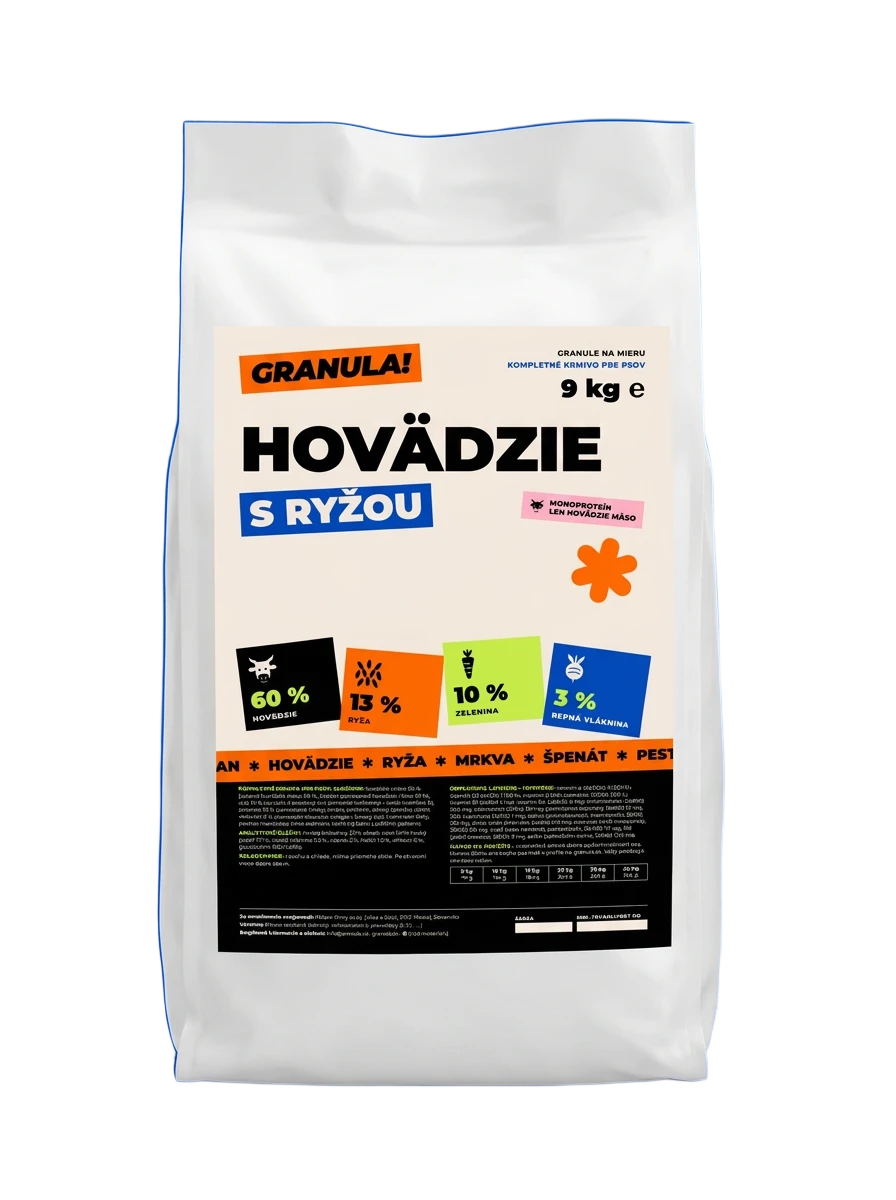
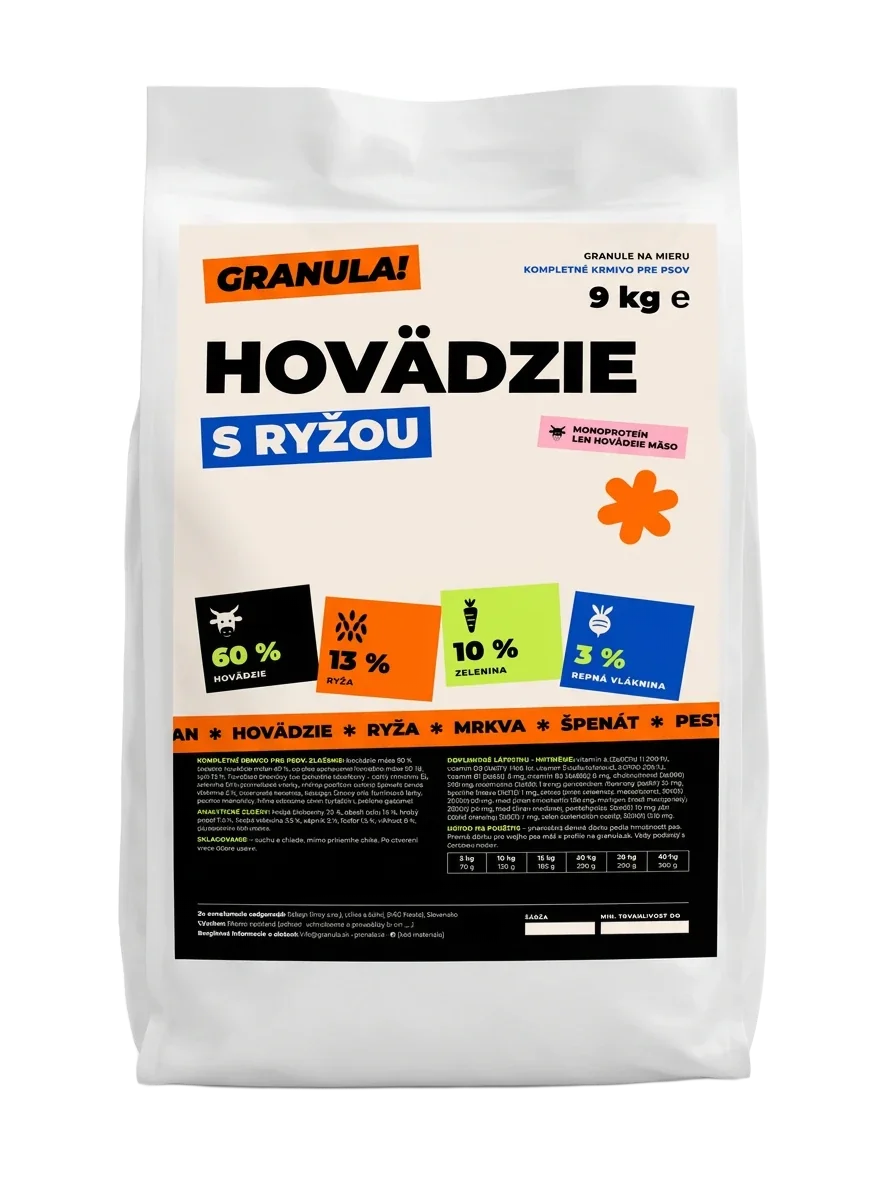
Granula home: new reviews section replaces 'Prečo Granula'; new bag images
Two auto-scrolling rows (opposite directions, pause on hover/focus, static and
scrollable with reduced motion) of photo cards with the dog's recipe and quote
cards. Replaces the pillars section and the old review carousel. New label
renders for all five recipes in img/produkty (used site-wide).

Claude-Session: https://claude.ai/code/session_01NsTXjdCeDU5mg9hJbbGUe3

Changed region(s): [[0.125, 0.0617, 0.875, 0.925], [0.4688, 0.0617, 0.8438, 0.1542], [0.5625, 0.1542, 0.625, 0.185]]

diff --git a/granula/index.html b/granula/index.html
@@ -43,15 +43,42 @@
 .stat .v{font-size:clamp(26px,2.4vw,36px);color:var(--k)}
 .stat span:last-child{font-size:14px;font-weight:700;line-height:1.4;max-width:220px}
 
-/* ---------- 01 piliere ---------- */
-.pillars{display:grid;grid-template-columns:repeat(3,minmax(0,1fr));gap:32px}
-.pillar{display:flex;flex-direction:column;gap:14px}
-.pillar .frame{height:280px}
-.pillar .kicker{position:absolute;left:-10px;top:18px;font-size:15px;padding:8px 12px 7px}
-.pillar h3{margin-top:6px;font-size:22px}
-.pillar p{font-size:15px;line-height:1.45}
-.tags{display:flex;flex-wrap:wrap;gap:8px}
-.tags span{border:2px solid var(--n);padding:7px 12px;font-size:13px;font-weight:800}
+/* ---------- 01 recenzie: dva rady, ktoré sa samy posúvajú opačným smerom ---------- */
+.rw .wrap{margin-bottom:32px}
+.rw-wrap{display:flex;flex-direction:column;gap:12px;overflow:hidden}
+.rw-row{list-style:none;margin:0;padding:0;display:flex;gap:12px;width:max-content;animation:rw-left 80s linear infinite}
+.rw-row.rw-b{animation-name:rw-right;animation-duration:95s}
+.rw-wrap:hover .rw-row,.rw-wrap:focus-within .rw-row{animation-play-state:paused}
+@keyframes rw-left{from{transform:translateX(0)}to{transform:translateX(calc(-50% - 6px))}}
+@keyframes rw-right{from{transform:translateX(calc(-50% - 6px))}to{transform:translateX(0)}}
+.rw-c{flex:none;height:240px;border:2px solid var(--n);background:var(--ml)}
+.rw-ph{position:relative;width:240px;overflow:hidden}
+.rw-img{position:absolute;inset:0;width:100%;height:100%;object-fit:cover}
+.rw-prod{position:absolute;left:8px;right:8px;bottom:8px;min-height:48px;display:flex;align-items:center;gap:8px;padding:6px 10px 6px 58px;
+  background:var(--m);border:2px solid var(--n);color:var(--n);text-decoration:none;transition:background 150ms ease}
+.rw-prod:hover{background:var(--o)}
+.rw-prod img{position:absolute;left:8px;bottom:3px;height:76px;width:auto}
+.rw-pt{flex:1;min-width:0;display:flex;flex-direction:column;gap:1px}
+.rw-pt small{font-size:9px;font-weight:800;letter-spacing:.08em;text-transform:uppercase}
+.rw-pt b{font-size:12px;font-weight:800;line-height:1.2}
+.rw-arr{flex:none;font-weight:900}
+.rw-tx{width:320px;padding:20px 22px 16px;display:flex;flex-direction:column;gap:12px}
+.rate{display:flex;gap:4px;color:var(--k)}
+.rw-tx .rate{font-size:15px}
+.rw-tx p{flex:1;font-size:15px;line-height:1.45;font-weight:600}
+.rw-by{display:flex;align-items:flex-end;gap:12px;font-size:12px;line-height:1.35}
+.rw-by img{height:58px;width:auto;flex:none}
+.rw-by b{font-weight:800}
+@media (max-width:640px){
+  .rw-c{height:200px}.rw-ph{width:200px}.rw-tx{width:264px;padding:14px 16px 12px;gap:8px}
+  .rw-tx p{font-size:13px}.rw-by img{height:48px}
+  .rw-prod{min-height:44px;padding-left:50px}.rw-prod img{height:62px}
+  .rw-pt small{font-size:8px}.rw-pt b{font-size:11px}
+}
+@media (prefers-reduced-motion:reduce){
+  .rw-wrap{overflow-x:auto}.rw-row{animation:none}
+  .rw-row [aria-hidden="true"]{display:none}
+}
 
 /* ---------- 02 dlhovekosť ---------- */
 /* Mlieko sekcia; číslo v orámovanom Kobaltovom paneli, Limetka ako jediný akcent */
@@ -144,28 +171,6 @@
 /* dve oranžové pásky do X: horná oddelená pruhom Mlieka */
 .nula-tapes .dark .tape{outline:3px solid var(--m)}
 
-/* ---------- recenzie ---------- */
-.arrows{display:flex;gap:10px}
-.arrow{width:48px;height:48px;border:2px solid var(--n);background:transparent;color:var(--n);font:900 22px/1 var(--font);cursor:pointer;
-  display:flex;align-items:center;justify-content:center}
-.arrow.dark{background:var(--n);color:var(--o)}
-.arrow{transition:background 150ms ease,color 150ms ease}
-.arrow:hover:not(:disabled){background:var(--n);color:var(--m)}
-.arrow.dark:hover:not(:disabled){background:var(--o);color:var(--n)}
-.arrow:disabled{opacity:.35;cursor:default}
-.is-static .arrow:disabled{opacity:1}
-.reviews{display:flex;gap:16px;overflow-x:auto;scroll-snap-type:x mandatory;scrollbar-width:none;padding-bottom:4px}
-.reviews::-webkit-scrollbar{display:none}
-.review{flex:0 0 calc((100% - 48px) / 4);scroll-snap-align:start;background:var(--ml);border:2px solid var(--n);display:flex;flex-direction:column}
-.review .pic{height:210px;position:relative;border-bottom:2px solid var(--n);overflow:hidden}
-.review .pic img{position:absolute;inset:0;width:100%;height:100%;object-fit:cover}
-.rate{display:flex;gap:4px;color:var(--k);font-size:14px}
-.review .body{padding:16px 18px 18px;display:flex;flex-direction:column;gap:10px;flex:1}
-.review blockquote{margin:0;font-size:14px;line-height:1.45;font-weight:600}
-.review .by{margin-top:auto;border-top:2px solid var(--n);padding-top:12px}
-.review .by b{font-size:13px;display:block}
-.review .by span{display:block;font-size:12px;font-weight:600;margin-top:4px}
-
 /* ---------- odborníci ---------- */
 .experts-grid{display:grid;grid-template-columns:repeat(3,minmax(0,1fr));gap:16px}
 .expert{background:var(--ml);border:2px solid var(--n);padding:32px;display:flex;flex-direction:column;gap:26px}
@@ -201,9 +206,6 @@
 .final .sticker{position:absolute;left:-24px;bottom:40px;font-size:22px}
 
 /* ---------- menšie obrazovky ---------- */
-@media (max-width:1100px){
-  .review{flex-basis:calc((100% - 24px) / 2)}
-}
 @media (max-width:960px){
   .hero .wrap,.longevity .wrap,.faq .wrap,.final .wrap{grid-template-columns:minmax(0,1fr)}
   .hero .wrap{gap:56px;padding-top:48px}
@@ -212,7 +214,7 @@
   .stats .wrap{grid-template-columns:repeat(2,minmax(0,1fr))}
   .stat:nth-child(3){border-left:0}
   .stat:nth-child(n+3){border-top:2px solid var(--n)}
-  .pillars,.experts-grid{grid-template-columns:minmax(0,1fr)}
+  .experts-grid{grid-template-columns:minmax(0,1fr)}
   .lg-panel{padding:28px 24px 32px}
   .steps{grid-template-columns:minmax(0,1fr)}
   .step + .step{border-left:0;border-top:2px solid var(--n)}
@@ -221,7 +223,6 @@
   .final .sticker{left:-8px}
 }
 @media (max-width:640px){
-  .review{flex-basis:86%}
   .s-vet{top:20px;padding:10px 14px 8px}
   .s-vet small{font-size:9px}
   .s-vet b{font-size:22px}
@@ -282,42 +283,17 @@
   </div>
 </section>
 
-<!-- 01 prečo -->
-<section class="sec">
-  <div class="wrap" style="display:flex;flex-direction:column;gap:32px">
-    <div class="head" style="max-width:900px">
-      <div class="eyebrow">01. Prečo Granula</div>
-      <h2 class="h2">Energia. Pohoda. <span class="ac">Roky navyše.</span></h2>
+<!-- 01 recenzie -->
+<section id="recenzie" class="sec rw">
+  <div class="wrap">
+    <div class="head" style="align-items:center;text-align:center">
+      <div class="eyebrow">01. Recenzie</div>
+      <h2 class="h2">Staň sa súčasťou svorky <span class="ac">spokojných zákazníkov</span></h2>
     </div>
-    <div class="pillars">
-      <article class="pillar" data-reveal>
-        <div style="position:relative">
-          <div class="frame"><div class="ph"><img src="img/energia-frisbee.jpg" alt="Pes chytá frisbee vo výskoku" width="736" height="1104" loading="lazy"></div></div>
-          <span class="sticker st-k kicker" style="--t:-6deg">Energia</span>
-        </div>
-        <h3 class="display">Chuť na loptičku. Každý deň.</h3>
-        <p>Konkrétne mäso ako hlavný zdroj bielkovín, 24 až 32&nbsp;% podľa veku a pohybu. Aby mal tvoj pes z čoho stavať svaly.</p>
-        <div class="tags"><span>Konkrétne mäso</span><span>Až 32&nbsp;% bielkovín</span></div>
-      </article>
-      <article class="pillar" data-reveal style="--d:.08s">
-        <div style="position:relative">
-          <div class="frame" style="--field:var(--k)"><div class="ph"><img src="img/pohoda-retrievery.jpg" alt="Dva zlaté retrievery na lúke" width="736" height="736" loading="lazy"></div></div>
-          <span class="sticker st-o kicker" style="--t:3deg">Pohoda</span>
-        </div>
-        <h3 class="display">Pokojné brucho. Lesklá srsť.</h3>
-        <p>Hliva ustricová, tanín z jedlého gaštana, ľanový olej a konopná múka. Suroviny, ktoré na bežnej etikete nenájdeš.</p>
-        <div class="tags"><span>Hliva ustricová</span><span>Ľanový olej</span></div>
-      </article>
-      <article class="pillar" data-reveal style="--d:.16s">
-        <div style="position:relative">
-          <div class="frame"><div class="ph"><img src="img/dlhovekost-objatie.jpg" alt="Pes v objatí s majiteľom" width="848" height="1200" loading="lazy"></div></div>
-          <span class="sticker st-k kicker" style="--t:-3deg">Dlhovekosť</span>
-        </div>
-        <h3 class="display">Roky navyše spolu.</h3>
-        <p>Kolagén, chondroitín a glukozamín pre kĺby a dávka presne na váhu tvojho psa. Aby ste spolu chodili čo najdlhšie.</p>
-        <div class="tags"><span>Kolagén</span><span>Kĺby</span></div>
-      </article>
-    </div>
+  </div>
+  <div class="rw-wrap" tabindex="0" aria-label="Recenzie zákazníkov (posúvajú sa samy, pri prejdení myšou sa zastavia)">
+    <ul class="rw-row rw-a"><li class="rw-c rw-ph"><img class="rw-img" src="img/recenzie/pes-v-rukach.webp" alt="Pes zdvihnutý v rukách majiteľa proti modrej oblohe" width="600" height="720" loading="lazy"><a class="rw-prod" href="granule-na-mieru.html"><img src="img/produkty/jelen-kralik-s-batatmi.webp" alt="" width="896" height="1200" loading="lazy"><span class="rw-pt"><small>Granule na mieru</small><b>Jeleň &amp; králik s batátmi</b></span><span class="rw-arr" aria-hidden="true">→</span></a></li><li class="rw-c rw-tx"><span class="rate" role="img" aria-label="Hodnotenie 5 z 5"><span class="star"></span><span class="star"></span><span class="star"></span><span class="star"></span><span class="star"></span></span><p>„Prvý raz za roky dojedá misku do dna a potom ju ešte chvíľu oblizuje.“</p><div class="rw-by"><img src="img/produkty/hovadzie-s-ryzou.webp" alt="" width="896" height="1200" loading="lazy"><span><b>Zuzana M.</b><br>Hovädzie s ryžou</span></div></li><li class="rw-c rw-ph"><img class="rw-img" src="img/recenzie/pes-banan.webp" alt="Pes si hryzie banán z ruky majiteľa" width="600" height="720" loading="lazy"><a class="rw-prod" href="granule-na-mieru.html"><img src="img/produkty/jahna-s-batatmi-cucoriedkami.webp" alt="" width="896" height="1200" loading="lazy"><span class="rw-pt"><small>Granule na mieru</small><b>Jahňa s batátmi &amp; čučoriedkami</b></span><span class="rw-arr" aria-hidden="true">→</span></a></li><li class="rw-c rw-ph"><img class="rw-img" src="img/recenzie/dievca-dalmatin.webp" alt="Dievča v červenom kabáte s dalmatínom a retrieverom" width="600" height="720" loading="lazy"><a class="rw-prod" href="granule-na-mieru.html"><img src="img/produkty/morka-hus-kacica-s-tekvicou.webp" alt="" width="896" height="1200" loading="lazy"><span class="rw-pt"><small>Granule na mieru</small><b>Morka, hus &amp; kačica s tekvicou</b></span><span class="rw-arr" aria-hidden="true">→</span></a></li><li class="rw-c rw-tx"><span class="rate" role="img" aria-label="Hodnotenie 5 z 5"><span class="star"></span><span class="star"></span><span class="star"></span><span class="star"></span><span class="star"></span></span><p>„Konečne viem, koľko gramov dávať. Za dva mesiace sme zhodili kilo a pol a na prechádzkach vydrží dlhšie.“</p><div class="rw-by"><img src="img/produkty/hovadzie-morka-jahna-s-ryzou.webp" alt="" width="896" height="1200" loading="lazy"><span><b>Martin K.</b><br>Hovädzie, morka &amp; jahňa s ryžou</span></div></li><li class="rw-c rw-ph"><img class="rw-img" src="img/recenzie/border-kolia.webp" alt="Border kólia s vyplazeným jazykom na lúke" width="600" height="720" loading="lazy"><a class="rw-prod" href="granule-na-mieru.html"><img src="img/produkty/jelen-kralik-s-batatmi.webp" alt="" width="896" height="1200" loading="lazy"><span class="rw-pt"><small>Granule na mieru</small><b>Jeleň &amp; králik s batátmi</b></span><span class="rw-arr" aria-hidden="true">→</span></a></li><li class="rw-c rw-ph" aria-hidden="true"><img class="rw-img" src="img/recenzie/pes-v-rukach.webp" alt="" width="600" height="720" loading="lazy"><a class="rw-prod" href="granule-na-mieru.html" tabindex="-1"><img src="img/produkty/jelen-kralik-s-batatmi.webp" alt="" width="896" height="1200" loading="lazy"><span class="rw-pt"><small>Granule na mieru</small><b>Jeleň &amp; králik s batátmi</b></span><span class="rw-arr" aria-hidden="true">→</span></a></li><li class="rw-c rw-tx" aria-hidden="true"><span class="rate" role="img" aria-label="Hodnotenie 5 z 5"><span class="star"></span><span class="star"></span><span class="star"></span><span class="star"></span><span class="star"></span></span><p>„Prvý raz za roky dojedá misku do dna a potom ju ešte chvíľu oblizuje.“</p><div class="rw-by"><img src="img/produkty/hovadzie-s-ryzou.webp" alt="" width="896" height="1200" loading="lazy"><span><b>Zuzana M.</b><br>Hovädzie s ryžou</span></div></li><li class="rw-c rw-ph" aria-hidden="true"><img class="rw-img" src="img/recenzie/pes-banan.webp" alt="" width="600" height="720" loading="lazy"><a class="rw-prod" href="granule-na-mieru.html" tabindex="-1"><img src="img/produkty/jahna-s-batatmi-cucoriedkami.webp" alt="" width="896" height="1200" loading="lazy"><span class="rw-pt"><small>Granule na mieru</small><b>Jahňa s batátmi &amp; čučoriedkami</b></span><span class="rw-arr" aria-hidden="true">→</span></a></li><li class="rw-c rw-ph" aria-hidden="true"><img class="rw-img" src="img/recenzie/dievca-dalmatin.webp" alt="" width="600" height="720" loading="lazy"><a class="rw-prod" href="granule-na-mieru.html" tabindex="-1"><img src="img/produkty/morka-hus-kacica-s-tekvicou.webp" alt="" width="896" height="1200" loading="lazy"><span class="rw-pt"><small>Granule na mieru</small><b>Morka, hus &amp; kačica s tekvicou</b></span><span class="rw-arr" aria-hidden="true">→</span></a></li><li class="rw-c rw-tx" aria-hidden="true"><span class="rate" role="img" aria-label="Hodnotenie 5 z 5"><span class="star"></span><span class="star"></span><span class="star"></span><span class="star"></span><span class="star"></span></span><p>„Konečne viem, koľko gramov dávať. Za dva mesiace sme zhodili kilo a pol a na prechádzkach vydrží dlhšie.“</p><div class="rw-by"><img src="img/produkty/hovadzie-morka-jahna-s-ryzou.webp" alt="" width="896" height="1200" loading="lazy"><span><b>Martin K.</b><br>Hovädzie, morka &amp; jahňa s ryžou</span></div></li><li class="rw-c rw-ph" aria-hidden="true"><img class="rw-img" src="img/recenzie/border-kolia.webp" alt="" width="600" height="720" loading="lazy"><a class="rw-prod" href="granule-na-mieru.html" tabindex="-1"><img src="img/produkty/jelen-kralik-s-batatmi.webp" alt="" width="896" height="1200" loading="lazy"><span class="rw-pt"><small>Granule na mieru</small><b>Jeleň &amp; králik s batátmi</b></span><span class="rw-arr" aria-hidden="true">→</span></a></li></ul>
+    <ul class="rw-row rw-b"><li class="rw-c rw-tx"><span class="rate" role="img" aria-label="Hodnotenie 5 z 5"><span class="star"></span><span class="star"></span><span class="star"></span><span class="star"></span><span class="star"></span></span><p>„Vrecko príde skôr, než dôjde to staré. Na granule už vôbec nemyslím.“</p><div class="rw-by"><img src="img/produkty/hovadzie-s-ryzou.webp" alt="" width="896" height="1200" loading="lazy"><span><b>Peter S.</b><br>Hovädzie s ryžou</span></div></li><li class="rw-c rw-ph"><img class="rw-img" src="img/recenzie/dieta-pudel.webp" alt="Dieťa s bielym pudlom na jesennej ulici" width="600" height="720" loading="lazy"><a class="rw-prod" href="granule-na-mieru.html"><img src="img/produkty/jahna-s-batatmi-cucoriedkami.webp" alt="" width="896" height="1200" loading="lazy"><span class="rw-pt"><small>Granule na mieru</small><b>Jahňa s batátmi &amp; čučoriedkami</b></span><span class="rw-arr" aria-hidden="true">→</span></a></li><li class="rw-c rw-ph"><img class="rw-img" src="img/recenzie/pudel-sneh.webp" alt="Pudel vo výskoku na snehu" width="600" height="720" loading="lazy"><a class="rw-prod" href="granule-na-mieru.html"><img src="img/produkty/morka-hus-kacica-s-tekvicou.webp" alt="" width="896" height="1200" loading="lazy"><span class="rw-pt"><small>Granule na mieru</small><b>Morka, hus &amp; kačica s tekvicou</b></span><span class="rw-arr" aria-hidden="true">→</span></a></li><li class="rw-c rw-tx"><span class="rate" role="img" aria-label="Hodnotenie 5 z 5"><span class="star"></span><span class="star"></span><span class="star"></span><span class="star"></span><span class="star"></span></span><p>„Na vrecku vidím, čo presne je vnútri a koľko. Žiadne hádanie, žiadne „mäsové deriváty“.“</p><div class="rw-by"><img src="img/produkty/hovadzie-morka-jahna-s-ryzou.webp" alt="" width="896" height="1200" loading="lazy"><span><b>Tomáš H.</b><br>Hovädzie, morka &amp; jahňa s ryžou</span></div></li><li class="rw-c rw-ph"><img class="rw-img" src="img/recenzie/pes-zlta-stena.webp" alt="Pes sedí pred žltou drevenou stenou" width="600" height="720" loading="lazy"><a class="rw-prod" href="granule-na-mieru.html"><img src="img/produkty/jelen-kralik-s-batatmi.webp" alt="" width="896" height="1200" loading="lazy"><span class="rw-pt"><small>Granule na mieru</small><b>Jeleň &amp; králik s batátmi</b></span><span class="rw-arr" aria-hidden="true">→</span></a></li><li class="rw-c rw-ph"><img class="rw-img" src="img/recenzie/pes-luka.webp" alt="Pes beží cez rozkvitnutú lúku" width="600" height="720" loading="lazy"><a class="rw-prod" href="granule-na-mieru.html"><img src="img/produkty/hovadzie-s-ryzou.webp" alt="" width="896" height="1200" loading="lazy"><span class="rw-pt"><small>Granule na mieru</small><b>Hovädzie s ryžou</b></span><span class="rw-arr" aria-hidden="true">→</span></a></li><li class="rw-c rw-ph"><img class="rw-img" src="img/recenzie/psi-nos.webp" alt="Detail psieho nosa a vyplazeného jazyka" width="600" height="720" loading="lazy"><a class="rw-prod" href="granule-na-mieru.html"><img src="img/produkty/jahna-s-batatmi-cucoriedkami.webp" alt="" width="896" height="1200" loading="lazy"><span class="rw-pt"><small>Granule na mieru</small><b>Jahňa s batátmi &amp; čučoriedkami</b></span><span class="rw-arr" aria-hidden="true">→</span></a></li><li class="rw-c rw-tx" aria-hidden="true"><span class="rate" role="img" aria-label="Hodnotenie 5 z 5"><span class="star"></span><span class="star"></span><span class="star"></span><span class="star"></span><span class="star"></span></span><p>„Vrecko príde skôr, než dôjde to staré. Na granule už vôbec nemyslím.“</p><div class="rw-by"><img src="img/produkty/hovadzie-s-ryzou.webp" alt="" width="896" height="1200" loading="lazy"><span><b>Peter S.</b><br>Hovädzie s ryžou</span></div></li><li class="rw-c rw-ph" aria-hidden="true"><img class="rw-img" src="img/recenzie/dieta-pudel.webp" alt="" width="600" height="720" loading="lazy"><a class="rw-prod" href="granule-na-mieru.html" tabindex="-1"><img src="img/produkty/jahna-s-batatmi-cucoriedkami.webp" alt="" width="896" height="1200" loading="lazy"><span class="rw-pt"><small>Granule na mieru</small><b>Jahňa s batátmi &amp; čučoriedkami</b></span><span class="rw-arr" aria-hidden="true">→</span></a></li><li class="rw-c rw-ph" aria-hidden="true"><img class="rw-img" src="img/recenzie/pudel-sneh.webp" alt="" width="600" height="720" loading="lazy"><a class="rw-prod" href="granule-na-mieru.html" tabindex="-1"><img src="img/produkty/morka-hus-kacica-s-tekvicou.webp" alt="" width="896" height="1200" loading="lazy"><span class="rw-pt"><small>Granule na mieru</small><b>Morka, hus &amp; kačica s tekvicou</b></span><span class="rw-arr" aria-hidden="true">→</span></a></li><li class="rw-c rw-tx" aria-hidden="true"><span class="rate" role="img" aria-label="Hodnotenie 5 z 5"><span class="star"></span><span class="star"></span><span class="star"></span><span class="star"></span><span class="star"></span></span><p>„Na vrecku vidím, čo presne je vnútri a koľko. Žiadne hádanie, žiadne „mäsové deriváty“.“</p><div class="rw-by"><img src="img/produkty/hovadzie-morka-jahna-s-ryzou.webp" alt="" width="896" height="1200" loading="lazy"><span><b>Tomáš H.</b><br>Hovädzie, morka &amp; jahňa s ryžou</span></div></li><li class="rw-c rw-ph" aria-hidden="true"><img class="rw-img" src="img/recenzie/pes-zlta-stena.webp" alt="" width="600" height="720" loading="lazy"><a class="rw-prod" href="granule-na-mieru.html" tabindex="-1"><img src="img/produkty/jelen-kralik-s-batatmi.webp" alt="" width="896" height="1200" loading="lazy"><span class="rw-pt"><small>Granule na mieru</small><b>Jeleň &amp; králik s batátmi</b></span><span class="rw-arr" aria-hidden="true">→</span></a></li><li class="rw-c rw-ph" aria-hidden="true"><img class="rw-img" src="img/recenzie/pes-luka.webp" alt="" width="600" height="720" loading="lazy"><a class="rw-prod" href="granule-na-mieru.html" tabindex="-1"><img src="img/produkty/hovadzie-s-ryzou.webp" alt="" width="896" height="1200" loading="lazy"><span class="rw-pt"><small>Granule na mieru</small><b>Hovädzie s ryžou</b></span><span class="rw-arr" aria-hidden="true">→</span></a></li><li class="rw-c rw-ph" aria-hidden="true"><img class="rw-img" src="img/recenzie/psi-nos.webp" alt="" width="600" height="720" loading="lazy"><a class="rw-prod" href="granule-na-mieru.html" tabindex="-1"><img src="img/produkty/jahna-s-batatmi-cucoriedkami.webp" alt="" width="896" height="1200" loading="lazy"><span class="rw-pt"><small>Granule na mieru</small><b>Jahňa s batátmi &amp; čučoriedkami</b></span><span class="rw-arr" aria-hidden="true">→</span></a></li></ul>
   </div>
 </section>
 
@@ -485,28 +461,6 @@
   <div class="nula-tapes" aria-hidden="true">
     <div class="row dark"><div class="tape rev" style="--rot:10deg"><div class="track"><span class="zi"><span class="zt" data-icon="psenica" data-size="36" data-ink="#0047BB" data-strike></span><span>Nula pšenice</span></span><span class="star" aria-hidden="true"></span><span class="zi"><span class="zt" data-icon="kukurica" data-size="36" data-ink="#0047BB" data-strike></span><span>Nula kukurice</span></span><span class="star" aria-hidden="true"></span><span class="zi"><span class="zt" data-icon="soja" data-size="36" data-ink="#0047BB" data-strike></span><span>Nula sóje</span></span><span class="star" aria-hidden="true"></span><span class="zi"><span class="zt" data-icon="hrach" data-size="36" data-ink="#0047BB" data-strike></span><span>Nula hrachu a strukovín</span></span><span class="star" aria-hidden="true"></span><span class="zi"><span class="zt" data-icon="kuramaso" data-size="36" data-ink="#0047BB" data-strike></span><span>Nula kuracieho mäsa</span></span><span class="star" aria-hidden="true"></span><span class="zi"><span class="zt" data-icon="kuratuk" data-size="36" data-ink="#0047BB" data-strike></span><span>Nula kuracieho tuku</span></span><span class="star" aria-hidden="true"></span><span class="zi"><span class="zt" data-icon="mucka" data-size="36" data-ink="#0047BB" data-strike></span><span>Nula mäsovej múčky</span></span><span class="star" aria-hidden="true"></span><span class="zi"><span class="zt" data-icon="psenica" data-size="36" data-ink="#0047BB" data-strike></span><span>Nula pšenice</span></span><span class="star" aria-hidden="true"></span><span class="zi"><span class="zt" data-icon="kukurica" data-size="36" data-ink="#0047BB" data-strike></span><span>Nula kukurice</span></span><span class="star" aria-hidden="true"></span><span class="zi"><span class="zt" data-icon="soja" data-size="36" data-ink="#0047BB" data-strike></span><span>Nula sóje</span></span><span class="star" aria-hidden="true"></span><span class="zi"><span class="zt" data-icon="hrach" data-size="36" data-ink="#0047BB" data-strike></span><span>Nula hrachu a strukovín</span></span><span class="star" aria-hidden="true"></span><span class="zi"><span class="zt" data-icon="kuramaso" data-size="36" data-ink="#0047BB" data-strike></span><span>Nula kuracieho mäsa</span></span><span class="star" aria-hidden="true"></span><span class="zi"><span class="zt" data-icon="kuratuk" data-size="36" data-ink="#0047BB" data-strike></span><span>Nula kuracieho tuku</span></span><span class="star" aria-hidden="true"></span><span class="zi"><span class="zt" data-icon="mucka" data-size="36" data-ink="#0047BB" data-strike></span><span>Nula mäsovej múčky</span></span><span class="star" aria-hidden="true"></span></div></div></div>
     <div class="row"><div class="tape" style="--rot:-10deg"><div class="track"><span class="zi"><span class="zt" data-icon="cukor" data-size="36" data-ink="#0047BB" data-strike></span><span>Nula pridaného cukru</span></span><span class="star" aria-hidden="true"></span><span class="zi"><span class="zt" data-icon="palma" data-size="36" data-ink="#0047BB" data-strike></span><span>Nula palmového oleja</span></span><span class="star" aria-hidden="true"></span><span class="zi"><span class="zt" data-icon="farbiva" data-size="36" data-ink="#0047BB" data-strike></span><span>Nula umelých farbív</span></span><span class="star" aria-hidden="true"></span><span class="zi"><span class="zt" data-icon="konzervanty" data-size="36" data-ink="#0047BB" data-strike></span><span>Nula umelých konzervantov</span></span><span class="star" aria-hidden="true"></span><span class="zi"><span class="zt" data-icon="aromy" data-size="36" data-ink="#0047BB" data-strike></span><span>Nula umelých aróm</span></span><span class="star" aria-hidden="true"></span><span class="zi"><span class="zt" data-icon="gmo" data-size="36" data-ink="#0047BB" data-strike></span><span>Nula GMO</span></span><span class="star" aria-hidden="true"></span><span class="zi"><span class="zt" data-icon="cukor" data-size="36" data-ink="#0047BB" data-strike></span><span>Nula pridaného cukru</span></span><span class="star" aria-hidden="true"></span><span class="zi"><span class="zt" data-icon="palma" data-size="36" data-ink="#0047BB" data-strike></span><span>Nula palmového oleja</span></span><span class="star" aria-hidden="true"></span><span class="zi"><span class="zt" data-icon="farbiva" data-size="36" data-ink="#0047BB" data-strike></span><span>Nula umelých farbív</span></span><span class="star" aria-hidden="true"></span><span class="zi"><span class="zt" data-icon="konzervanty" data-size="36" data-ink="#0047BB" data-strike></span><span>Nula umelých konzervantov</span></span><span class="star" aria-hidden="true"></span><span class="zi"><span class="zt" data-icon="aromy" data-size="36" data-ink="#0047BB" data-strike></span><span>Nula umelých aróm</span></span><span class="star" aria-hidden="true"></span><span class="zi"><span class="zt" data-icon="gmo" data-size="36" data-ink="#0047BB" data-strike></span><span>Nula GMO</span></span><span class="star" aria-hidden="true"></span></div></div></div>
-  </div>
-</section>
-
-<!-- recenzie -->
-<section id="recenzie" class="sec" data-carousel>
-  <div class="wrap" style="display:flex;flex-direction:column;gap:32px">
-    <div class="head-row">
-      <div class="head">
-        <div class="eyebrow">#granulapsy</div>
-        <h2 class="h2">Miska plná. <span class="ac">Chvost v pohybe.</span></h2>
-      </div>
-      <div class="arrows">
-        <button type="button" class="arrow" aria-label="Predchádzajúce recenzie" data-carousel-prev>←</button>
-        <button type="button" class="arrow dark" aria-label="Ďalšie recenzie" data-carousel-next>→</button>
-      </div>
-    </div>
-    <div class="reviews" data-carousel-row tabindex="0" aria-label="Recenzie zákazníkov">
-      <article class="review"><div class="pic"><img src="img/recenzia-bruno.jpg" alt="" width="736" height="981" loading="lazy"></div><div class="body"><span class="rate" role="img" aria-label="5 z 5 hviezdičiek"><span class="star"></span><span class="star"></span><span class="star"></span><span class="star"></span><span class="star"></span></span><blockquote>„Prvé granule, pri ktorých nevyberá. Miska je prázdna skôr, než si stihnem obuť topánky.“</blockquote><div class="by"><b class="display">Bruno, kokršpaniel</b><span>Tomáš, Bratislava</span></div></div></article>
-      <article class="review"><div class="pic"><img src="img/recenzia-fifi.jpg" alt="" width="736" height="920" loading="lazy"></div><div class="body"><span class="rate" role="img" aria-label="5 z 5 hviezdičiek"><span class="star"></span><span class="star"></span><span class="star"></span><span class="star"></span><span class="star"></span></span><blockquote>„Pri vyžle sledujeme každý gram. Dávka na gramy konečne sedí a váha sa ustálila.“</blockquote><div class="by"><b class="display">Fifi, vyžla</b><span>Lucia, Košice</span></div></div></article>
-      <article class="review"><div class="pic"><img src="img/recenzia-aja-bady.jpg" alt="" width="1080" height="1350" loading="lazy" style="object-position:center 88%"></div><div class="body"><span class="rate" role="img" aria-label="5 z 5 hviezdičiek"><span class="star"></span><span class="star"></span><span class="star"></span><span class="star"></span><span class="star"></span></span><blockquote>„Dva psy, dvoje granule, jedno doručenie. Srsť sa leskne a vrecko nestrážim.“</blockquote><div class="by"><b class="display">Ája a Bady, retrievery</b><span>Zuzana, Žilina</span></div></div></article>
-      <article class="review"><div class="pic"><img src="img/recenzia-kakao.jpg" alt="" width="736" height="1104" loading="lazy"></div><div class="body"><span class="rate" role="img" aria-label="5 z 5 hviezdičiek"><span class="star"></span><span class="star"></span><span class="star"></span><span class="star"></span><span class="star"></span></span><blockquote>„Citlivé brucho a roky skúšania. S jahňacími granulami máme pokoj už tretí mesiac.“</blockquote><div class="by"><b class="display">Kakao, kokršpaniel</b><span>Martin, Trnava</span></div></div></article>
-    </div>
   </div>
 </section>
 
